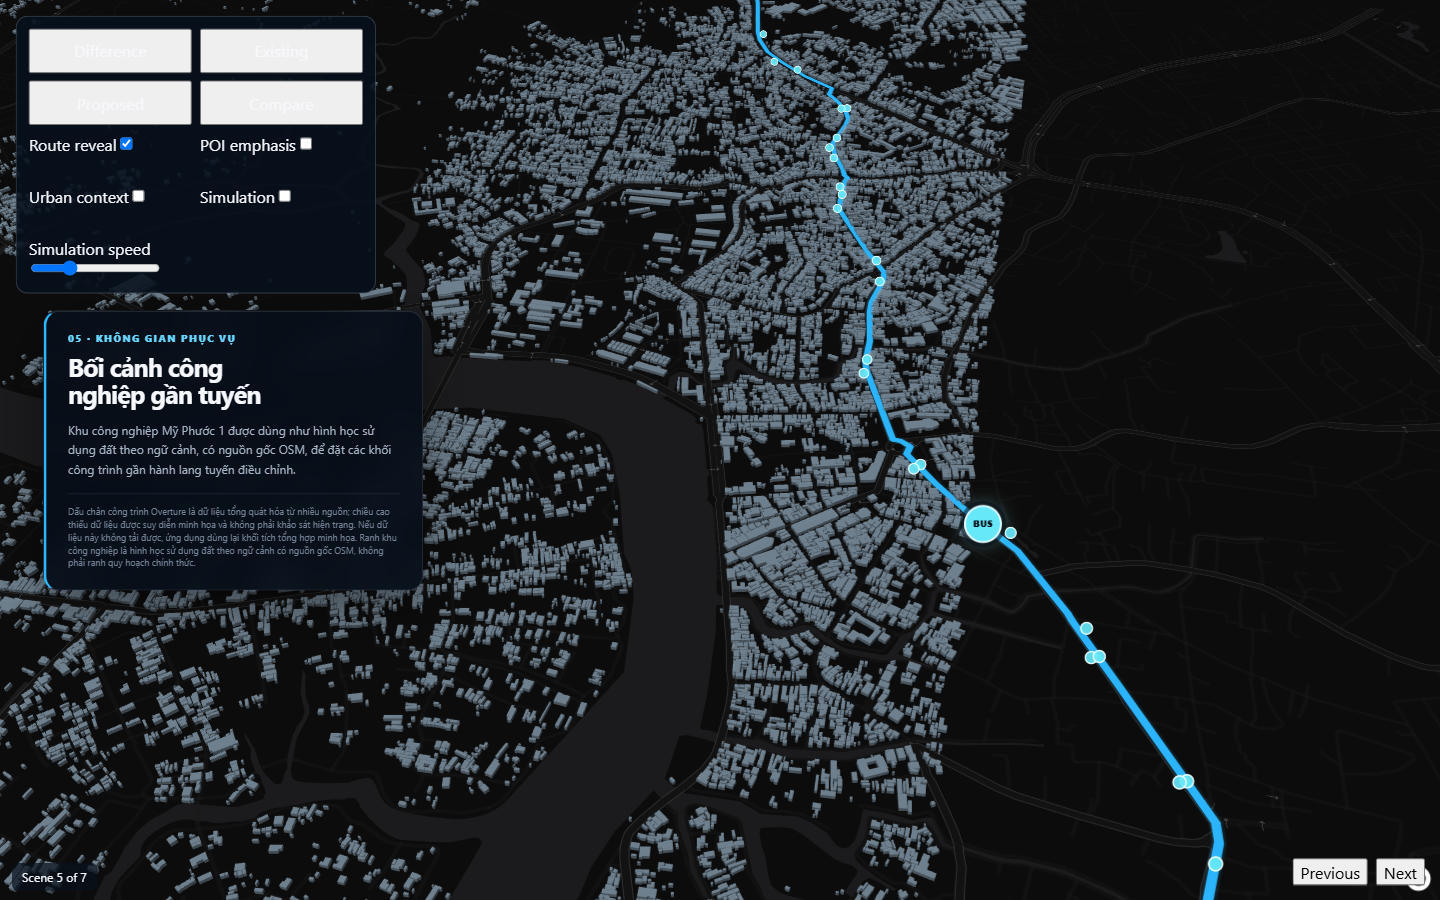
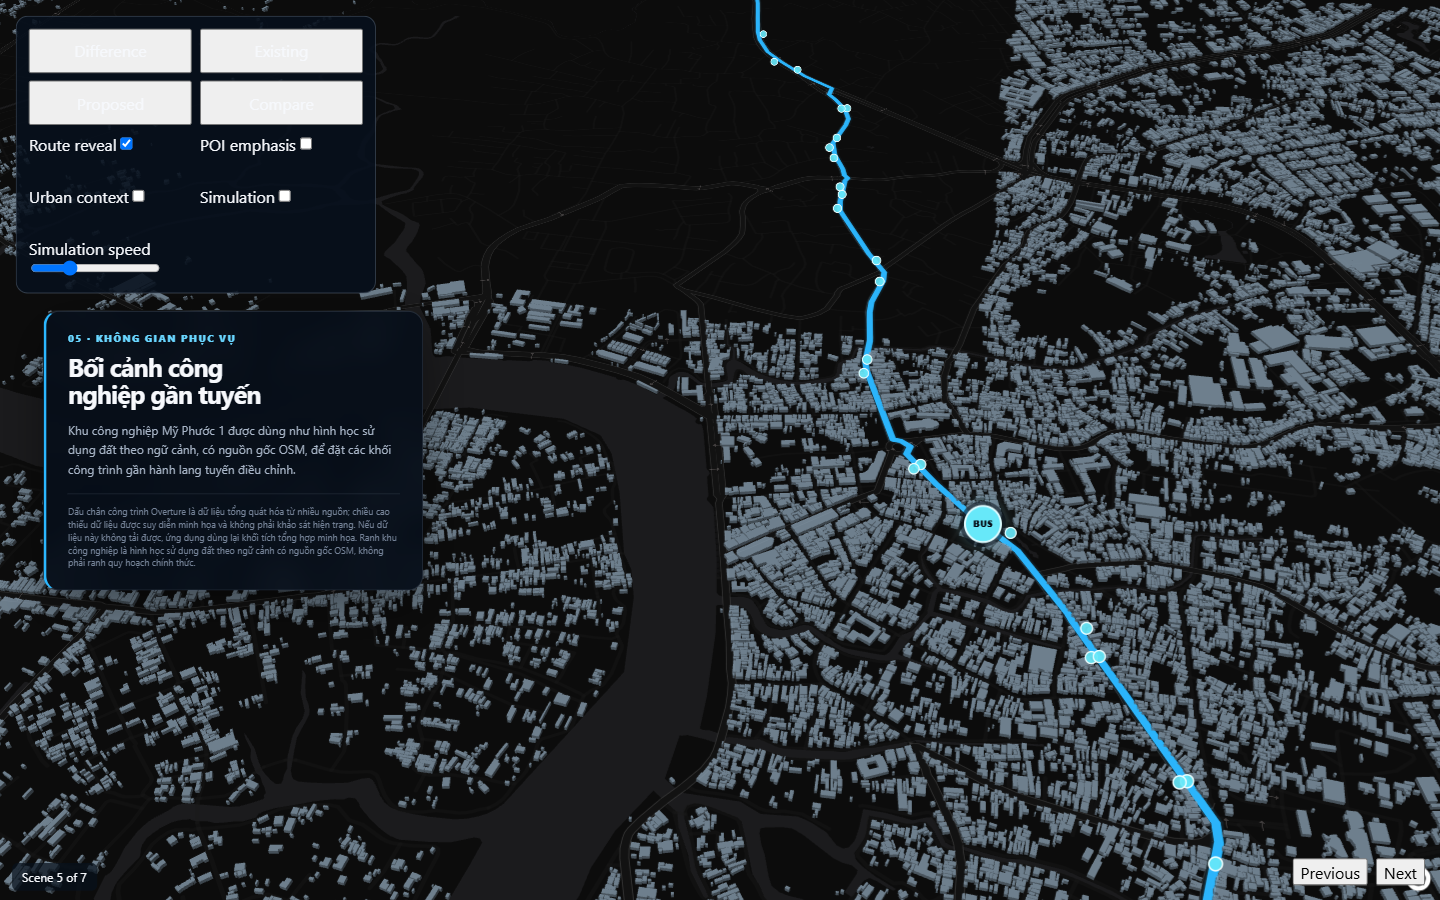
docs: recertify Overture min-floor correction

Changed region(s): [[0.2812, 0.0, 1.0, 1.0], [0.2812, 0.0, 0.3125, 0.0311]]

diff --git a/review/map-story-studio-v1-2/overture-pmtiles/C1.md b/review/map-story-studio-v1-2/overture-pmtiles/C1.md
@@ -8,7 +8,9 @@ Date: 2026-09-03 (Asia/Saigon)
 - Task 6 starting SHA: `d1b35ee701da6cbd1cb34b4f2e42878c56482a1b`
 - Extrusion expression correction: `aad7976`
 - Layer-installation status hardening: `b0974f3`
-- Final executable SHA: `f8b7b2b81bbc90f6607ed4abc6a0087d0a073ad2`
+- Previous certified executable SHA: `f8b7b2b81bbc90f6607ed4abc6a0087d0a073ad2`
+- Minimum-floor fallback correction: `318f2c8d0f96f71fed61e0aefac76e648da41b4b`
+- New certified executable SHA: `318f2c8d0f96f71fed61e0aefac76e648da41b4b`
 
 ## Vendored PMTiles evidence
 
@@ -16,9 +18,9 @@ Date: 2026-09-03 (Asia/Saigon)
[2 lines of base64/hex data omitted]
 
-## Browser gate
+## Browser recertification
 
-The certification ran from `http://127.0.0.1:8765/` in a fresh Chromium profile through the existing CDP-based project tooling. Result: **PASS**.
+The unchanged certification harness ran from `http://127.0.0.1:8765/` in a fresh Chromium profile against executable SHA `318f2c8d0f96f71fed61e0aefac76e648da41b4b`. Result: **PASS**.
 
 - Archive: `https://overturemaps-extras-us-west-2.s3.us-west-2.amazonaws.com/tiles/2026-08-19.0/buildings.pmtiles`
 - Pre-activation PMTiles requests: `0`
@@ -26,16 +28,16 @@ The certification ran from `http://127.0.0.1:8765/` in a fresh Chromium profile 
 - Mỹ Phước requests / reliably reported transferred bytes: `12` / `1,764,015`
 - Mỹ Phước Range/206 evidence: all 12 requests carried byte ranges and all 12 responses were `206`
 - Mỹ Phước rendered/source features: `14,015` / `31,170`
-- Mỹ Phước activation-to-visible: `3,190.2 ms`
+- Mỹ Phước activation-to-visible: `3,083.3 ms`
 - Thủ Dầu Một requests / reliably reported transferred bytes: `6` / `2,905,926`
 - Thủ Dầu Một Range/206 evidence: all 6 requests carried byte ranges and all 6 responses were `206`
 - Thủ Dầu Một rendered/source features: `158` / `2,561`
 - Thủ Dầu Một target distance: `0 m`
-- Thủ Dầu Một activation-to-visible: `1,429.6 ms`
-- Local settled FPS: `60.06380221316157`
-- Online settled FPS: `60.105746209075825`
-- FPS regression: `-0.06983240216027475%` (online was fractionally faster)
-- Worst attributable activation frame/task gap: `233.2 ms` (limit `250 ms`)
+- Thủ Dầu Một activation-to-visible: `1,255.5 ms`
+- Local settled FPS: `60.1732790691644`
+- Online settled FPS: `60.08476689104961`
+- FPS regression: `0.1470954873724839%`
+- Worst attributable activation frame/task gap: `199.6 ms` (limit `250 ms`; worst long task `85 ms`)
 - Source / flat layer / 3D layer / protocol counts after distant-camera reuse: `1 / 1 / 1 / 1`
 - Map instances / map canvases: `1 / 1`
 - Remote failure status/category: `unavailable` / `network`
@@ -83,9 +85,11 @@ All four frames were reviewed at full resolution. Built form is coherent, with n
 
 - Focused expression tests after correction: `7/7` passed in `146.7802 ms`.
 - Focused layer-status hardening test: RED reproduced `available` instead of `unavailable`; GREEN passed `4/4` in `242.0801 ms`.
-- Prescribed bounded C1 regression after browser success: `56/56` passed in `548.1012 ms`.
-- Focused final migration tests: `14/14` passed in `284.8888 ms`.
-- Full `npm test` at the final executable content: run exactly once; `652/652` passed in `5163.8026 ms`.
+- Minimum-floor fallback RED: `7/8` passed; the missing-`min_height`, `min_floor = 2` case returned `0` instead of `7`, in `134.3481 ms`.
+- Minimum-floor fallback GREEN: `8/8` passed in `123.4472 ms`; missing optional values, explicit `min_height`, and default-zero cases all passed.
+- Prescribed bounded C1 regression after the correction: `57/57` passed in `479.5002 ms`.
+- Focused final migration tests: `14/14` passed in `296.8985 ms`.
+- Full `npm test` at the new final executable head: run exactly once; `653/653` passed in `4582.3127 ms`.
 
 ## Freeze evidence
 
